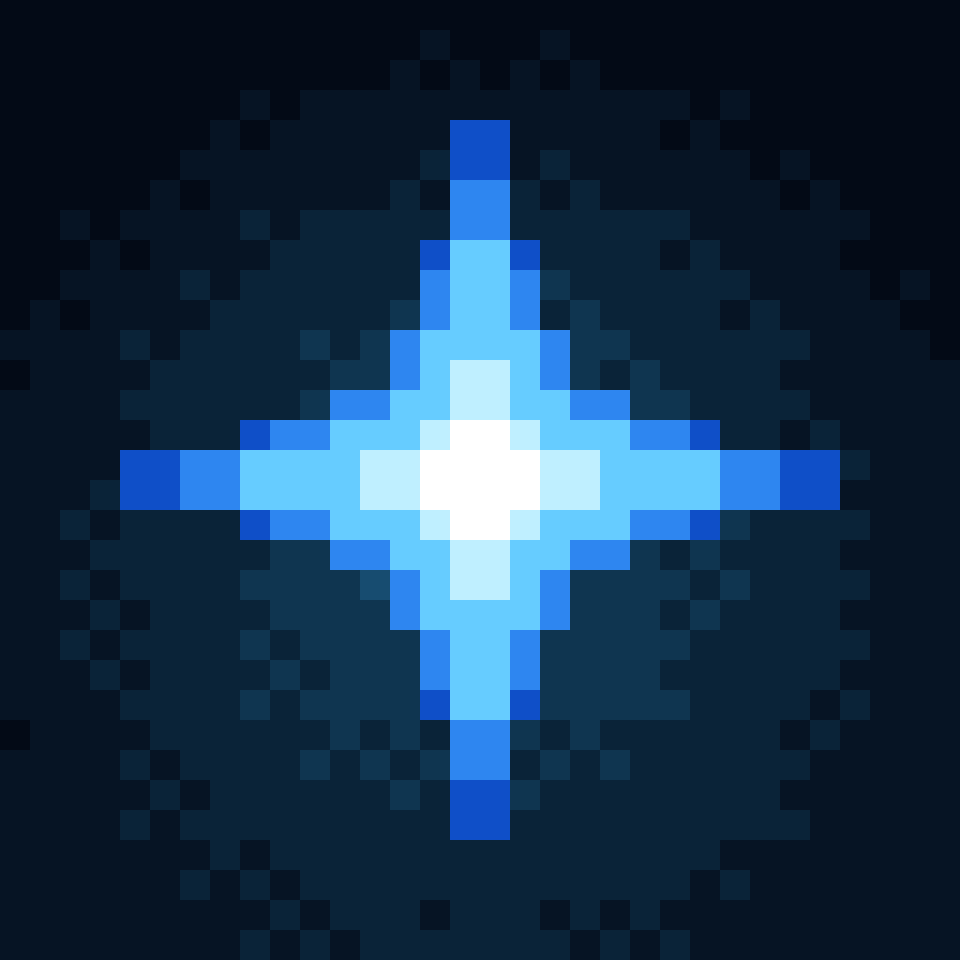
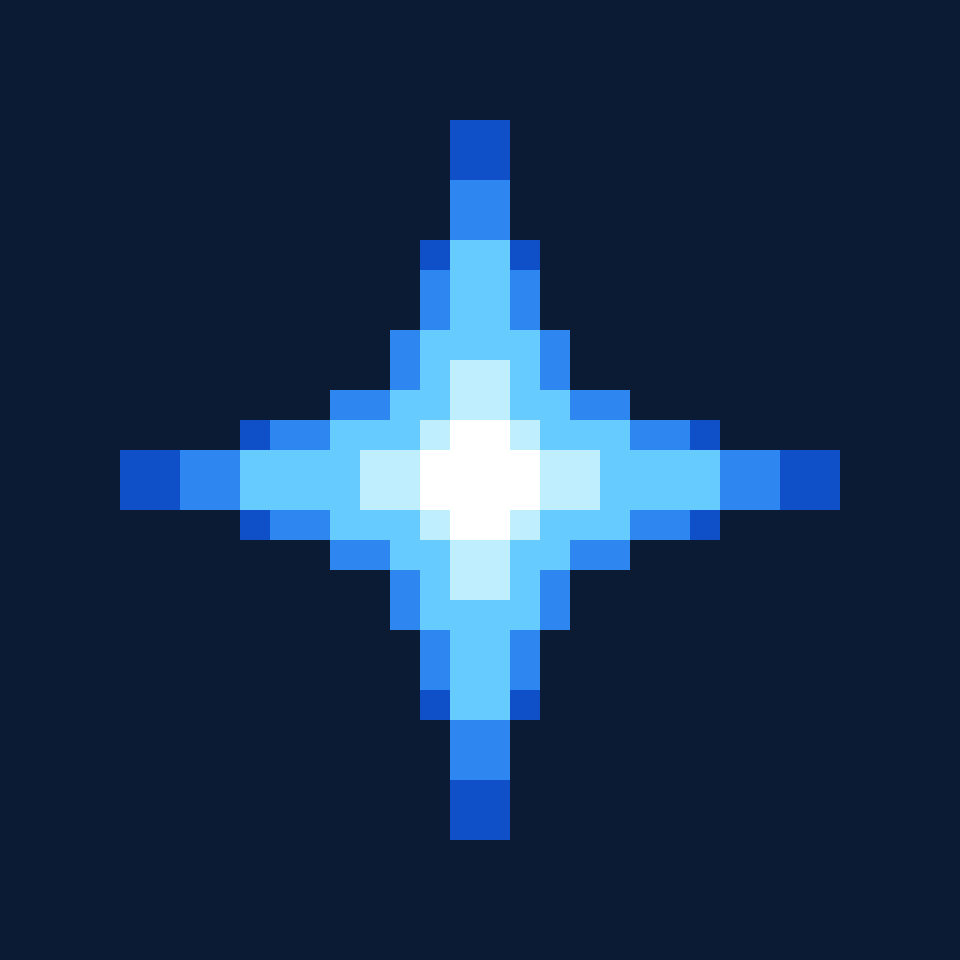
feat: bug fix

diff --git a/Scripts/App/Main.cs b/Scripts/App/Main.cs
@@ -94,53 +94,39 @@ public partial class Main : Node2D
 
     private const string SettingsPath = "user://settings.cfg";
 
-    /// <summary>Whether the window is in full screen. The window itself has a fixed size (not resizable, except while in full screen); in full screen the
+    /// <summary>Whether the window is in full screen. The window can be resized, and in full screen the
     /// picture grows to the screen keeping its proportions, and what is left at the sides is filled by the pillars of <see cref="SideFrame"/> (stretch mode canvas_items / expand).</summary>
     public static bool IsFullscreen => DisplayServer.WindowGetMode() == DisplayServer.WindowMode.Fullscreen;
 
     /// <summary>The mode last chosen (the window itself may take a frame to show it).</summary>
     public static bool FullscreenChosen { get; private set; }
 
-    /// <summary>Seconds since the last change of mode was asked for (the window takes a while to get there on macOS: an animation), and how long it has been in a window with the resize still free.</summary>
-    private static float _sinceRequest = 99, _windowedFor;
-    private static bool _lockPending;
+    /// <summary>Seconds since the last change of mode was asked for (the window takes a while to get there on macOS: an animation).</summary>
+    private static float _sinceRequest = 99;
+
+    /// <summary>The smallest the window can be made: half the size of the picture.</summary>
+    private static readonly Vector2I MinWindowSize = new(555, 388);
 
     /// <summary>
-    /// The window is not resizable, and on macOS a window that cannot be resized goes to full screen without growing (the picture stays at the size of the window, in the middle of the screen). So the window
-    /// is made resizable while it is in full screen, and fixed again some moments after it is back in a window (not at once: the way out of full screen is an animation, and the flag must not change in the middle of it).
+    /// The window is always resizable (the project says so, and nothing locks it): on macOS a window that cannot be resized does not grow its picture when it is made bigger (full screen, the green
+    /// button, "Fill", the corner dragged), it only gets bigger around it. Resizable, the picture follows every size (stretch mode canvas_items / expand), and what is left at the sides is filled by the pillars.
     /// </summary>
     private static void ApplyScreenMode(bool fullscreen)
     {
-        _sinceRequest = 0; _windowedFor = 0;
-        if (fullscreen)
-        {
-            _lockPending = false;
-            DisplayServer.WindowSetFlag(DisplayServer.WindowFlags.ResizeDisabled, false);
-            DisplayServer.WindowSetMode(DisplayServer.WindowMode.Fullscreen);
-        }
-        else
-        {
-            DisplayServer.WindowSetMode(DisplayServer.WindowMode.Windowed);
-            _lockPending = true;
-        }
+        _sinceRequest = 0;
+        DisplayServer.WindowSetFlag(DisplayServer.WindowFlags.ResizeDisabled, false);
+        DisplayServer.WindowSetMode(fullscreen ? DisplayServer.WindowMode.Fullscreen : DisplayServer.WindowMode.Windowed);
     }
 
     /// <summary>
-    /// Every frame: fixes the window's size again once it has been in a window for a while, and keeps <see cref="FullscreenChosen"/> true to the window itself when it was changed from outside
-    /// (the green button, or Esc, of macOS), long after the last request, saving the new mode.
+    /// Every frame: keeps <see cref="FullscreenChosen"/> true to the window itself when it was changed from outside (the green button, or Esc, of macOS), long after the last request, saving the new mode.
     /// </summary>
     private static void WatchScreenMode(float delta)
     {
         _sinceRequest += delta;
-        if (_lockPending)
-        {
-            _windowedFor = IsFullscreen ? 0 : _windowedFor + delta;
-            if (_windowedFor >= 0.8f) { DisplayServer.WindowSetFlag(DisplayServer.WindowFlags.ResizeDisabled, true); _lockPending = false; }
-        }
         if (_sinceRequest > 2.0f && FullscreenChosen != IsFullscreen)
         {
             FullscreenChosen = IsFullscreen;
-            if (!IsFullscreen) _lockPending = true; else DisplayServer.WindowSetFlag(DisplayServer.WindowFlags.ResizeDisabled, false);
             SaveFullscreen(FullscreenChosen);
         }
     }
@@ -193,6 +179,8 @@ public partial class Main : Node2D
             ApplyScreenMode(true);
             FullscreenChosen = true;
         }
+        DisplayServer.WindowSetFlag(DisplayServer.WindowFlags.ResizeDisabled, false);
+        DisplayServer.WindowSetMinSize(MinWindowSize);
 
         _options = LaunchOptions.FromCommandLine();
         if (DevTools.Run(_options)) { GetTree().Quit(); return; }

diff --git a/Scripts/Art/IconArt.cs b/Scripts/Art/IconArt.cs
@@ -11,7 +11,8 @@ public static class IconArt
     public const int Size = 32;
 
     private static readonly P Deep = P.Hex(0x0F4FC8), Blue = P.Hex(0x2E86F0), Sky = P.Hex(0x66CCFF), Pale = P.Hex(0xBFEFFF), White = P.Hex(0xFFFFFF);
-    private static readonly P[] Night = { P.Hex(0x030A16), P.Hex(0x061424), P.Hex(0x0A2338), P.Hex(0x0F3550), P.Hex(0x174C70), P.Hex(0x1F6590) };
+    /// <summary>The background of the icon with the night behind it: a single colour, no gradient and no haze.</summary>
+    private static readonly P NightFlat = P.Hex(0x0A1B33);
 
     /// <summary>
     /// The star: four long rays (up, down, left, right) that thin out to a point, as thick as `thickness` pixels at the middle. Returns how bright the ray is at this pixel (0: outside it, 1: the centre
@@ -40,11 +41,7 @@ public static class IconArt
                 P colour = default;      // clear
                 if (night)
                 {
-                    // the night: darker at the top, and a haze of blue round the star that thins out (dithered)
-                    float t = y / (float)(Size - 1);
-                    float haze = Math.Clamp(1 - d / 18f, 0, 1);
-                    int level = Math.Clamp((int)MathF.Floor(t * 1.6f + haze * 3.8f + bayer), 0, Night.Length - 1);
-                    colour = Night[level];
+                    colour = NightFlat;      // the night behind the star: one flat colour
                 }
                 else if (d < 15f)
                 {
